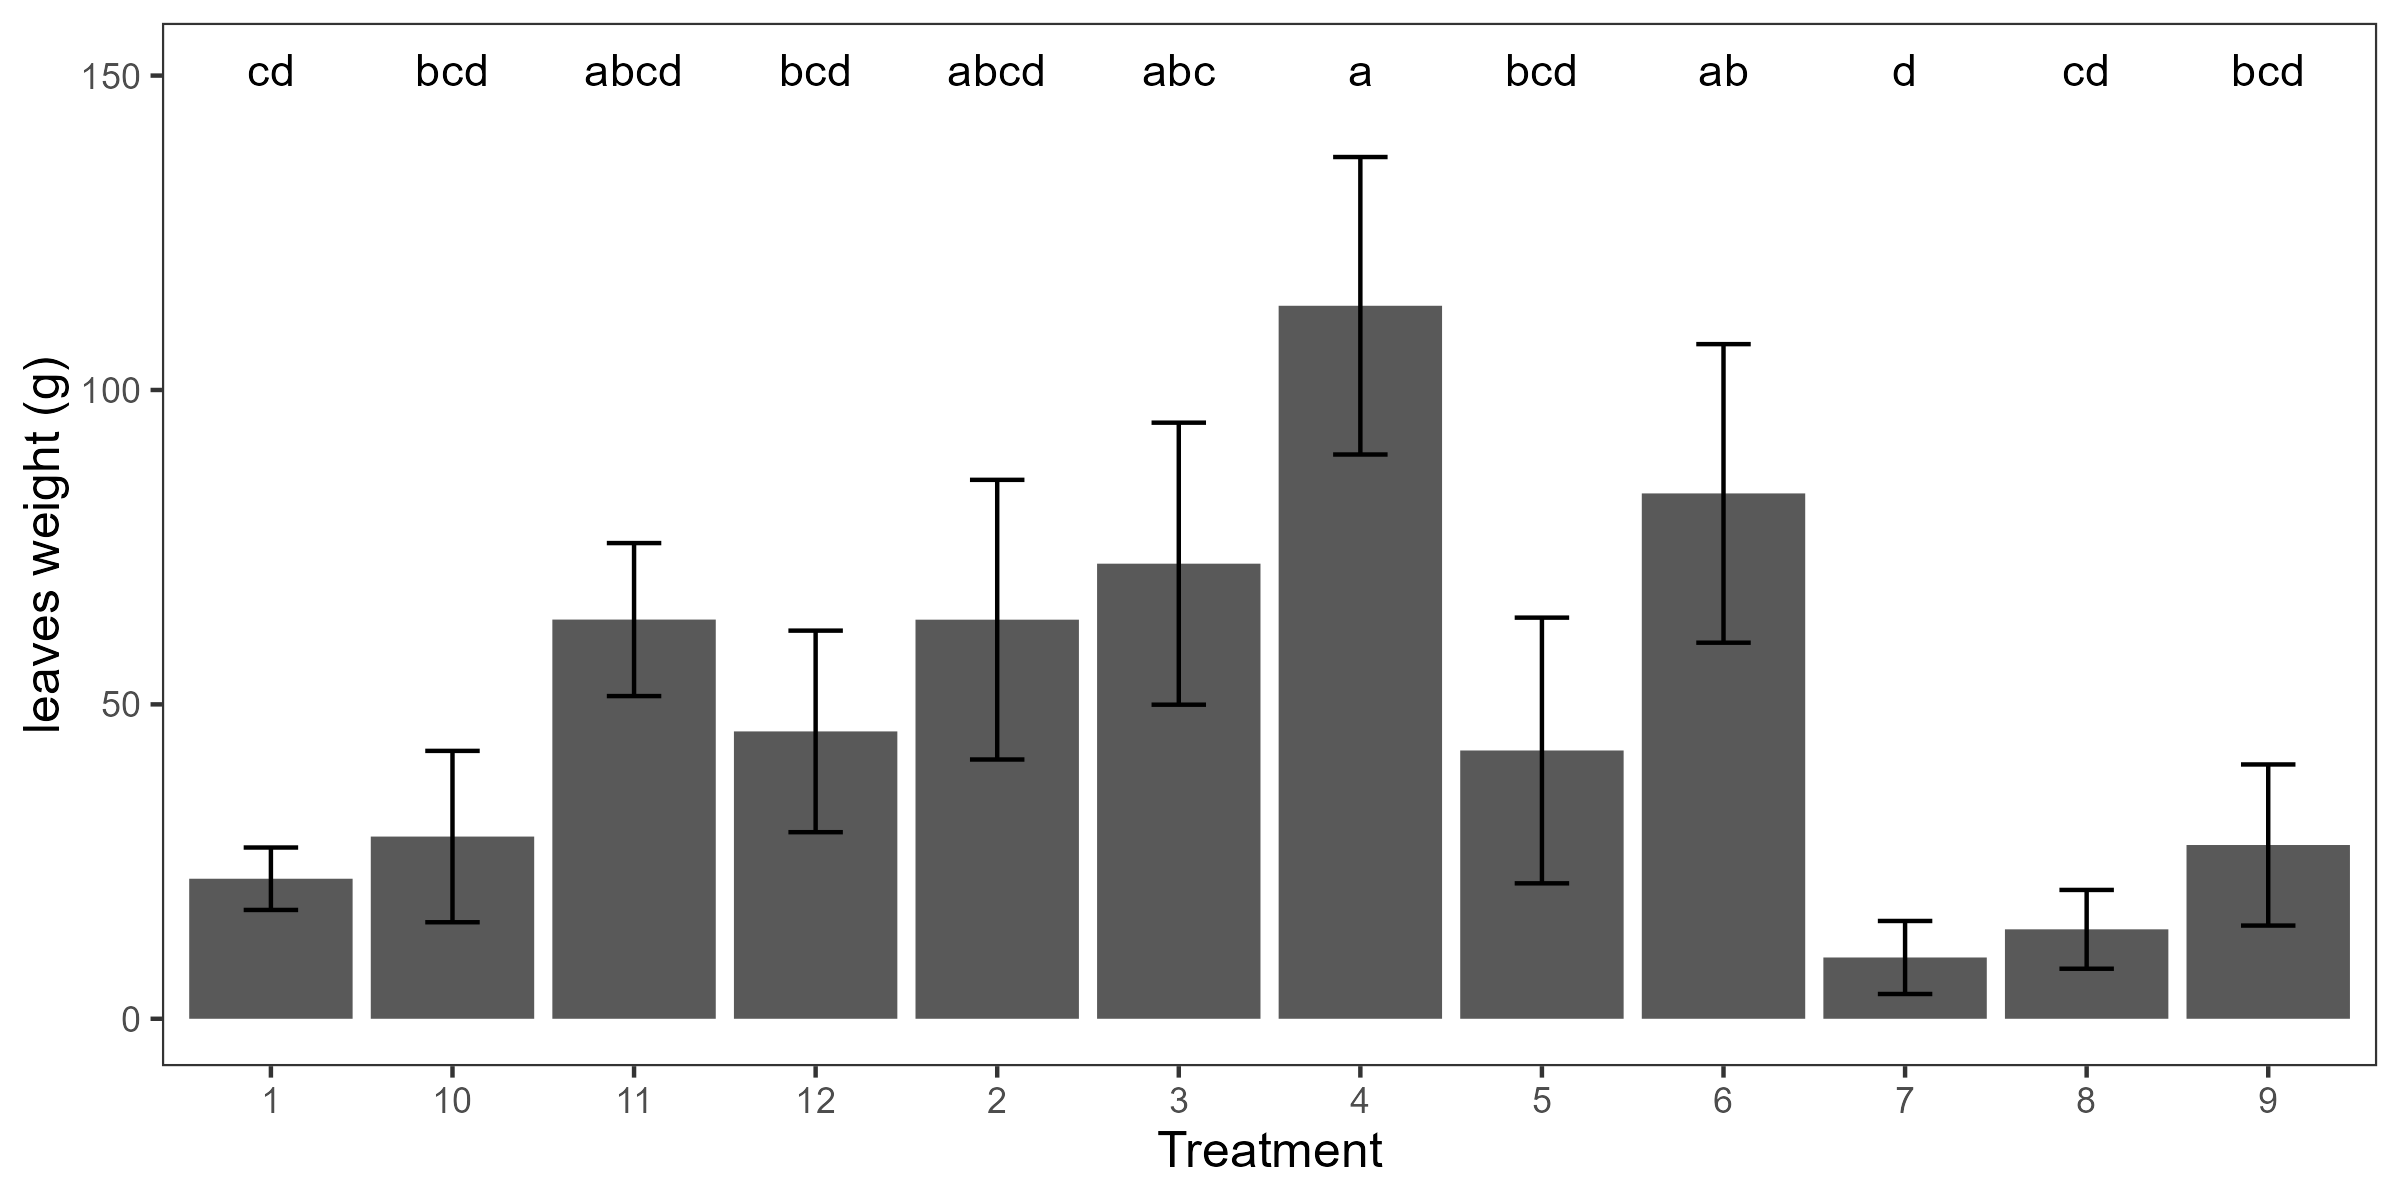
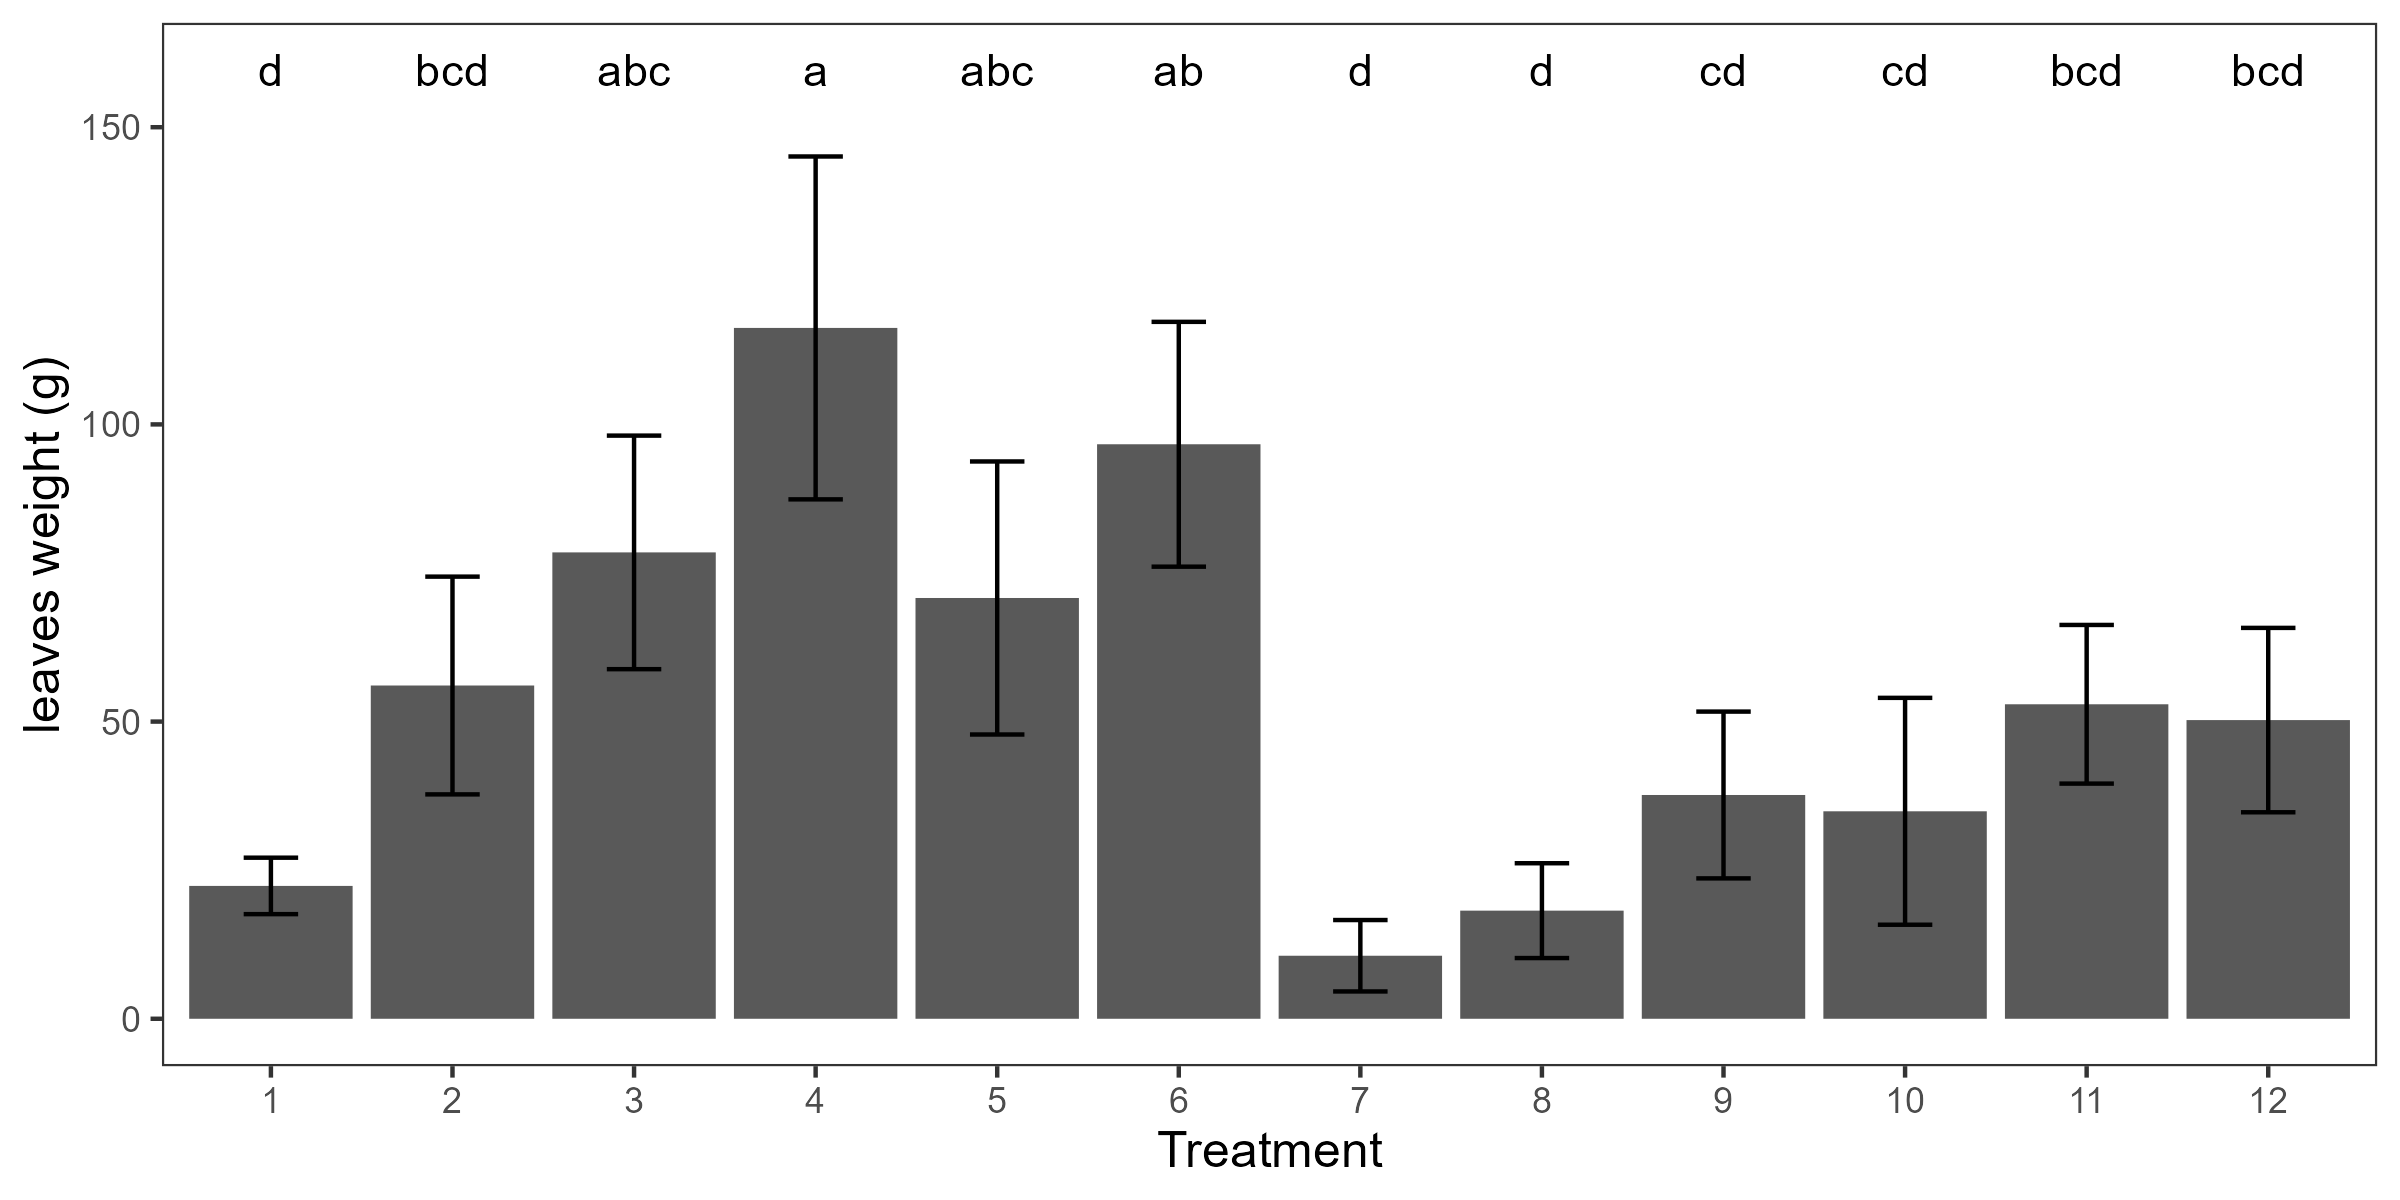
commit3

diff --git a/water_balance.html b/water_balance.html
@@ -515,9 +515,100 @@ ggplot(data=drain_NEC_avg)+
      scale_x_datetime(limits = c(as.POSIXct(&quot;2023-09-01&quot;), as.POSIXct(&quot;2023-12-31&quot;)),labels = date_format(&quot;%d-%m-%y&quot;),breaks = date_breaks(&quot;1 months&quot;))+  theme_bw()</code></pre>
 <pre><code>## Warning: Removed 25 rows containing missing values (`geom_point()`).</code></pre>
[1 lines of base64/hex data omitted]
-<p>Note that the <code>echo = FALSE</code> parameter was added to the
-code chunk to prevent printing of the R code that generated the
-plot.</p>
+<pre class="r"><code>data_1 &lt;- read_excel(&quot;eoso.xlsx&quot;,sheet = &quot;07022024&quot;)
+
+labels &lt;- read_excel(&quot;eoso.xlsx&quot;,sheet = &quot;labels&quot;)
+
+
+data_long &lt;- data_1 |&gt;
+  pivot_longer(
+    6:8,
+    names_to = &quot;Variable&quot;,
+    values_to = &quot;Value&quot;
+  )
+
+data_1$treatment &lt;- factor(data_1$treatment, levels = c(1,2,3,4,5,6,7,8,9,10,11,12))
+variables &lt;- unique(data_long$Variable)
+
+stats_vars &lt;- data_long |&gt;
+  group_by( treatment, Variable) |&gt;
+  summarise(
+    Mean = mean(Value, na.rm = T),
+    Sd = sd(Value, na.rm = T),
+    N = n(),
+    tcalc = qt(0.975, N-1),
+    eem = tcalc*Sd/sqrt(N),
+    Min = Mean - eem,
+    Max = Mean + eem
+  )</code></pre>
+<pre><code>## `summarise()` has grouped output by &#39;treatment&#39;. You can override using the
+## `.groups` argument.</code></pre>
+<pre class="r"><code>groups &lt;- data.frame(
+  treatment = &quot;x&quot;,
+  Variable = &quot;x&quot;,
+  groups = &quot;x&quot;
+)
+
+  for(j in seq_along(variables)){
+    df &lt;- data_long |&gt;
+      filter(Variable == variables[j])
+    mod1 &lt;- aov(Value ~ treatment, df)
+    grps_mod1 &lt;- HSD.test(mod1, &quot;treatment&quot;)$groups
+    grps_mod1 &lt;- grps_mod1 |&gt;
+      rownames_to_column(var = &quot;treatment&quot;) |&gt;
+      select(-2) |&gt;
+      mutate(
+        Variable = variables[j]
+      ) 
+    groups &lt;- rbind(groups, grps_mod1)
+  }
+
+groups &lt;- groups |&gt;
+  filter(treatment != 0)
+
+stats_vars$treatment &lt;- as.character(stats_vars$treatment)
+stats_vars &lt;- left_join(stats_vars, groups)</code></pre>
+<pre><code>## Joining with `by = join_by(treatment, Variable)`</code></pre>
+<pre class="r"><code>for(i in seq_along(variables)){
+  df &lt;- data_long |&gt;
+    filter(Variable == variables[i])
+  stats_vars_filtrados &lt;- stats_vars |&gt;
+    filter(Variable == variables[i])
+  stats_vars_filtrados$treatment &lt;- factor(stats_vars_filtrados$treatment, levels = c(1,2,3,4,5,6,7,8,9,10,11,12))
+  name1 &lt;- paste0(&quot;graphics/all/&quot;,variables[i],&quot;_box.png&quot;)
+  name3 &lt;- paste0(&quot;graphics/all/&quot;,variables[i],&quot;_bars.png&quot;)
+  label &lt;- paste0(labels[i,2])
+  graphic1 &lt;- ggplot(df, aes(x = factor(treatment), y = Value)) +
+    geom_boxplot() +
+    theme_apa() +
+    labs(x = &quot;Treatment&quot;, y = label) +
+    theme(
+      legend.position = &quot;bottom&quot;
+    )
+  maximum0 = 1.1*(max(df$Value, na.rm = T))
+  graphic1 &lt;- graphic1 + geom_text(data = stats_vars_filtrados, aes(x = treatment, y = maximum0, label = groups),
+                                   position = position_dodge(width = .75))
+  grapchic3 &lt;- ggplot(stats_vars_filtrados, aes(x = treatment, Mean)) +
+    geom_bar(position=position_dodge(), stat=&quot;identity&quot;) +
+    geom_errorbar(aes(ymin=Min, ymax=Max),
+                  width=.3,
+                  position=position_dodge(.9)) +
+#scale_fill_grey(start = 0.3, end = .8)  +
+    theme_apa() +
+    ylab(label) +
+    xlab(&quot;Treatment&quot;) +
+    theme(
+      legend.position = &quot;bottom&quot;
+    )
+  maximum = 1.1*(max(stats_vars_filtrados$Mean) + max(stats_vars_filtrados$eem))
+  graphic3 &lt;- grapchic3 + geom_text(data = stats_vars_filtrados, aes(x = treatment, y = maximum, label = groups),
+                                   position = position_dodge(width = .75))
+  ggsave(name1, graphic1, width = 8, height = 4)
+  ggsave(name3, graphic3, width = 8, height = 4)
+}</code></pre>
+<pre><code>## Warning: Removed 5 rows containing non-finite values (`stat_boxplot()`).</code></pre>
+<pre><code>## Warning: Removed 8 rows containing non-finite values (`stat_boxplot()`).</code></pre>
+<pre class="r"><code>writexl::write_xlsx(x = stats_vars, &quot;stats_all.xlsx&quot;)</code></pre>
 </div>
 
 
